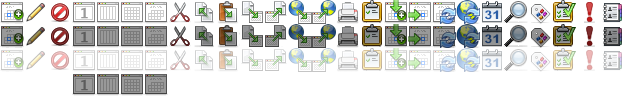
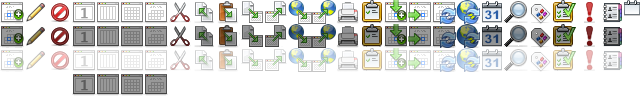
Fix bug 393763 - Make Today Pane toolbar button image more i18n-friendly. r=philipp

diff --git a/calendar/lightning/themes/pinstripe/lightning.css b/calendar/lightning/themes/pinstripe/lightning.css
@@ -149,9 +149,19 @@ radio[pane=paneLightning] {
   -moz-appearance: none;
 }
 
-#calendar-status-todaypane-button > .toolbarbutton-icon-begin {
+#calendar-status-todaypane-button > stack > .toolbarbutton-icon-begin {
   list-style-image: url(chrome://calendar/skin/toolbar-small.png);
-  -moz-image-region: rect(0px 336px 16px 320px);
+  -moz-image-region: rect(0px 640px 16px 624px);
+}
+
+#calendar-status-todaypane-button > stack > .toolbarbutton-day-text {
+  text-align: center;
+  margin:4px 0 -4px 0;
+  font-size: 7pt;
+  font-family: Arial, Helvetica, sans-serif;
+  font-weight: bold;
+  color: DarkBlue;
+  background-color: transparent;
 }
 
 /* shift the today pane button label up by one pixel to center it */

diff --git a/calendar/lightning/themes/winstripe/lightning.css b/calendar/lightning/themes/winstripe/lightning.css
@@ -152,9 +152,21 @@ radio[pane=paneLightning] {
   -moz-appearance: none;
 }
 
-#calendar-status-todaypane-button > .toolbarbutton-icon-begin {
+#calendar-status-todaypane-button > stack > .toolbarbutton-icon-begin {
   list-style-image: url(chrome://calendar/skin/toolbar-small.png);
   -moz-image-region: rect(0px 336px 16px 320px);
+}
+
+#calendar-status-todaypane-button > stack > .toolbarbutton-day-text {
+  text-align: center;
+  margin-left: 0px;
+  margin-top: 4px;
+  margin-bottom: -4px;
+  font-size: 7pt;
+  font-family: Arial, Helvetica, sans-serif;
+  font-weight: bold;
+  color: DarkBlue;
+  background-color: transparent;
 }
 
 /* shift the today pane button label up by one pixel to center it */

diff --git a/calendar/base/content/widgets/calendar-widget-bindings.css b/calendar/base/content/widgets/calendar-widget-bindings.css
@@ -57,6 +57,10 @@ toolbarbutton[doubleimage="true"] {
   -moz-binding: url(chrome://calendar/content/widgets/calendar-widgets.xml#doubleimage-toolbarbutton);
 }
 
+toolbarbutton[todaypane="true"] {
+  -moz-binding: url(chrome://calendar/content/widgets/calendar-widgets.xml#todaypane-toolbarbutton);
+}
+
 minimonth {
   -moz-binding: url("chrome://calendar/content/widgets/minimonth.xml#minimonth");
 }

diff --git a/calendar/lightning/content/messenger-overlay-sidebar.js b/calendar/lightning/content/messenger-overlay-sidebar.js
@@ -236,6 +236,10 @@ function refreshUIBits() {
 
         // update the unifinder
         refreshEventTree();
+
+        // update today's date on todaypane button
+        document.getElementById("calendar-status-todaypane-button").setUpTodayDate();
+
     } catch (exc) {
         ASSERT(false, exc);
     }
